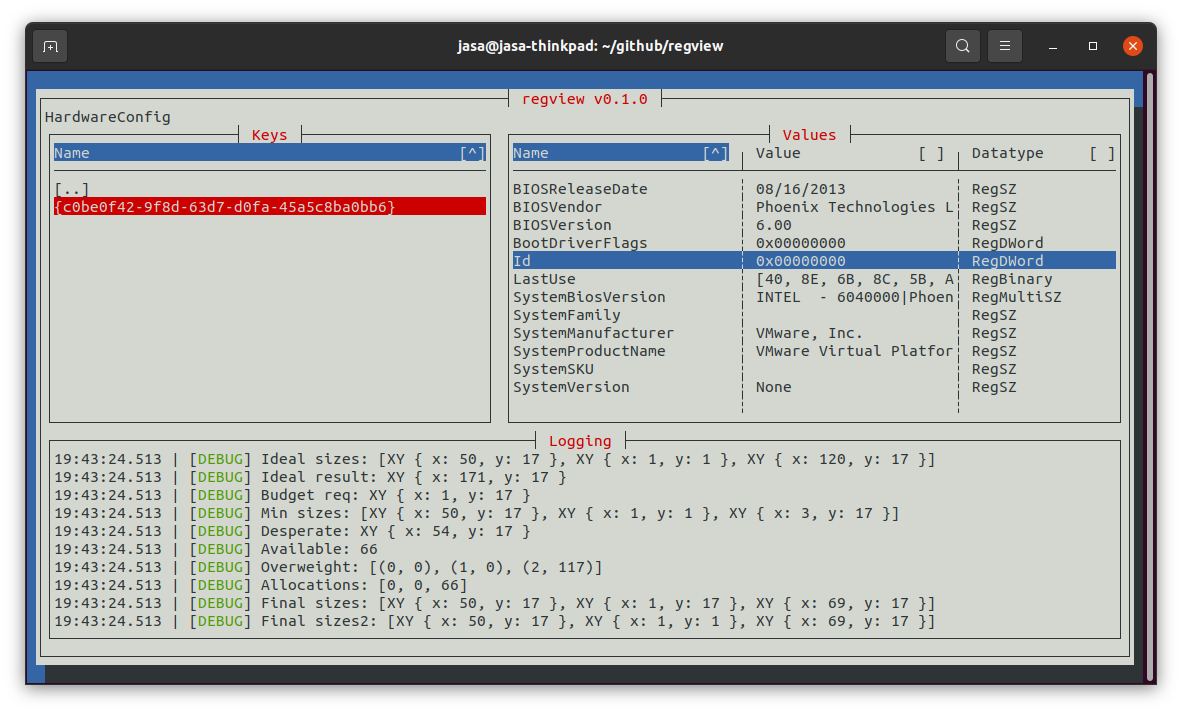
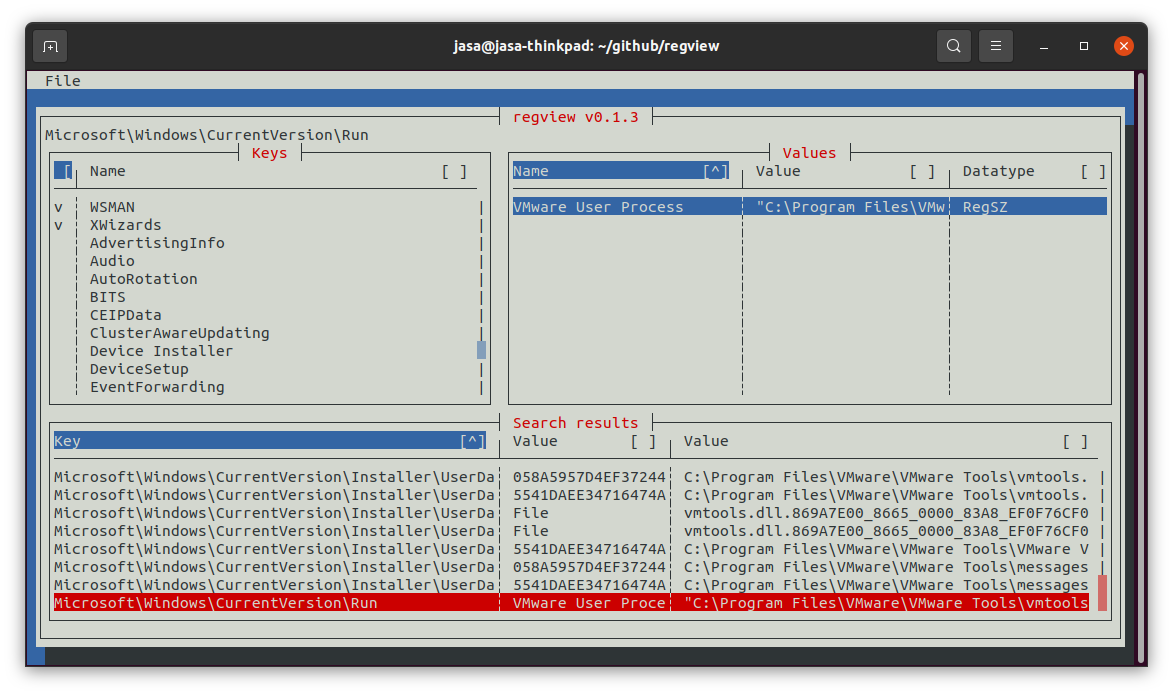
removed some warnings, added one error handler

Changed region(s): [[0.0, 0.0302, 0.9821, 0.9669]]

diff --git a/src/ui_main.rs b/src/ui_main.rs
@@ -1,9 +1,8 @@
 use anyhow::Result;
-use cursive::backend::Backend;
-use cursive::{event, View};
+use cursive::event;
 use cursive::menu::MenuTree;
 use cursive::view::{Nameable, Resizable, SizeConstraint, Selector};
-use cursive::views::{DummyView, ProgressBar};
+use cursive::views::DummyView;
 use cursive::Cursive;
 use cursive::{
     views::{Dialog, EditView, LinearLayout, OnEventView, Panel, ResizedView, TextView, ViewRef},
@@ -21,7 +20,6 @@ use crate::search_result::*;
 static NAME_KEYS_TABLE: &str = "keys_table";
 static NAME_VALUES_TABLE: &str = "values_table";
 static NAME_PATH_LINE: &str = "path_line";
-static NAME_DEBUG_VIEW: &str = "debug_view";
 static NAME_SEARCH_REGEX: &str = "search_regex";
 static NAME_SEARCH_RESULTS: &str = "search_results";
 static NAME_SEARCH_PANEL: &str = "search_panel";
@@ -195,8 +193,6 @@ impl UIMain {
                     }
                 };
 
-                let user_data: &mut RegviewUserdata = siv.user_data().unwrap();
-                let hive = &user_data.hive;
                 siv.call_on_name(NAME_SEARCH_RESULTS, |sr_table: &mut TableView<SearchResultLine, SearchResultColumns>| {
                     sr_table.clear();
                     sr_table.set_items(search_result.into_iter().map(SearchResultLine::from).collect());
@@ -248,11 +244,19 @@ impl UIMain {
         let displayed_path = selected_line.path.join("\\");
         let my_key = selected_line.path.pop();
 
-        let user_data: &mut RegviewUserdata = siv.user_data().unwrap();
-        let hive = &user_data.hive;
+        let new_items = {
+            let user_data: &mut RegviewUserdata = siv.user_data().unwrap();
+            let hive = &user_data.hive;
+            hive.borrow_mut().select_path(&selected_line.path)
+        };
 
-        // FIXME: this unwrap may crash
-        let new_items = hive.borrow_mut().select_path(&selected_line.path).unwrap();
+        let new_items = match new_items {
+            Ok(new_items) => new_items,
+            Err(why) => {
+                Self::display_error(siv, why);
+                return;
+            }
+        };
 
         let mut keys_table: ViewRef<TableView<KeysLine, KeysColumn>> =
         siv.find_name(NAME_KEYS_TABLE).unwrap();

diff --git a/src/registry_hive.rs b/src/registry_hive.rs
@@ -122,7 +122,6 @@ impl RegistryHive {
         let root = self.hive.root_key_node()?;
         let current_node = root.subpath(&(self.path())).unwrap()?;
         let mut search_result = Vec::new();
-        let root = self.hive.root_key_node()?;
         let mut current_path = Vec::new();
         
         self.find_here_and_below(&mut current_path, &current_node, &regex, &mut search_result)?;
@@ -275,15 +274,15 @@ impl RegistryHive {
                                 if name_matches {
                                     match matching_value {
                                         Some(value) => {
-                                            add_search_result(search_result, SearchResult::ValueNameAndData(current_path.clone(), value_name, value));
+                                            add_search_result(search_result, SearchResult::ValueNameAndData(current_path.clone(), value_name, value))?;
                                         }
                                         None => {
-                                            add_search_result(search_result, SearchResult::ValueName(current_path.clone(), value_name));
+                                            add_search_result(search_result, SearchResult::ValueName(current_path.clone(), value_name))?;
                                         }
                                     }
                                 } else {
                                     if let Some(value) = matching_value {
-                                        add_search_result(search_result, SearchResult::ValueData(current_path.clone(), value_name, value));
+                                        add_search_result(search_result, SearchResult::ValueData(current_path.clone(), value_name, value))?;
                                     }
                                 }
                             }

diff --git a/src/values_line.rs b/src/values_line.rs
@@ -49,12 +49,6 @@ impl ValuesLine {
             datatype: datatype.to_owned()
         })
     }
-
-    pub fn new(name: String, data: String, datatype: String) -> Self {
-        Self {
-            name, data, datatype
-        }
-    }
 }
 
 impl TableViewItem<ValuesColumn> for ValuesLine {

diff --git a/README.md b/README.md
@@ -6,17 +6,18 @@ Offline-viewer for registry files
 # Usage
 
 ```shell
-regview 0.1.0
+regview 0.1.4
 
 Offline-viewer for registry files
 
 USAGE:
-    regview <REG_FILE>
+    regview [FLAGS] <REG_FILE>
+
+FLAGS:
+        --omit-validation    omit validation
+    -h, --help               Prints help information
+    -V, --version            Prints version information
 
 ARGS:
     <REG_FILE>    path to registry hive file
-
-OPTIONS:
-    -h, --help       Print help information
-    -V, --version    Print version information
 ```
